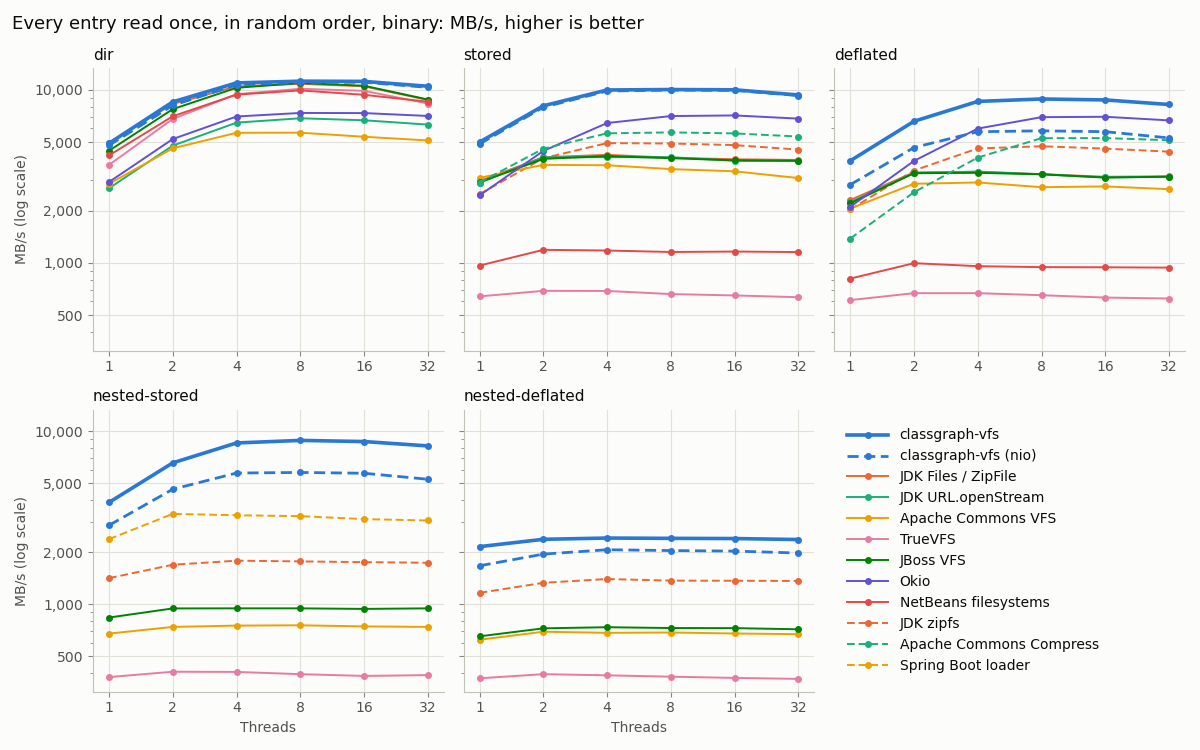
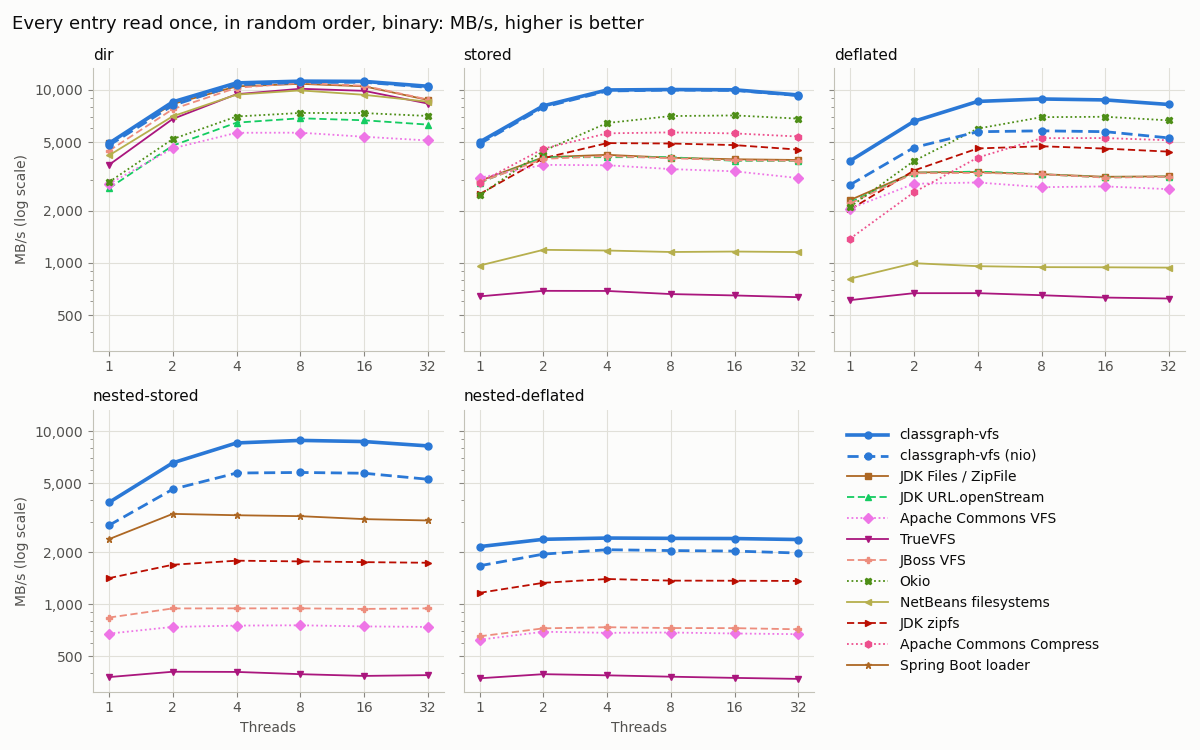
Draw only classgraph-vfs in blue in the benchmark line charts
The other libraries had seven hues, two of them close to blue, so it was hard
to pick out where classgraph-vfs falls. Give them nine hues that are not blue,
spaced as widely as possible, and a marker and dash pattern each, so that no
two libraries in the same panel look alike.

diff --git a/classgraph-vfs/src/test/perf/plot_benchmarks.py b/classgraph-vfs/src/test/perf/plot_benchmarks.py
@@ -38,10 +38,14 @@ GRID = "#e1e0d9"
 AXIS = "#c3c2b7"
 OTHER_BAR = "#b4b2aa"
 CGVFS_COLOR = "#2a78d6"
-# The other categorical hues, in their fixed order. There are more libraries than hues, so a library
-# is told apart by its hue and its line style together
-HUES = ["#eb6834", "#1baf7a", "#eda100", "#e87ba4", "#008300", "#6250d6", "#e34948"]
-STYLES = ["-", (0, (4, 2))]
+# The other libraries' hues, in their fixed order. None is blue, so classgraph-vfs is the only blue line.
+# These nine are the most widely spaced in OKLab that keep away from the blue. There are more libraries
+# than hues (the tenth, Spring Boot loader, shares a hue with JDK Files / ZipFile, which never appears in
+# the same panel), and some pairs look alike to colorblind readers, so each library also gets its own
+# marker, and a dash pattern
+HUES = ["#ad6723", "#14cc61", "#ee75e6", "#aa167d", "#ed8d7d", "#4d8e16", "#b6af4d", "#ba0d01", "#ed4f8d"]
+MARKERS = ["s", "^", "D", "v", "P", "X", "<", ">", "h", "*"]
+DASHES = ["-", (0, (4, 2)), (0, (1, 1.5))]
 
 plt.rcParams.update({
     "font.family": "sans-serif",
@@ -105,13 +109,15 @@ def line_styles(tables):
     others = [library for library in libraries if not is_cgvfs(library)]
     for library in libraries:
         if library == "classgraph-vfs":
-            styles[library] = dict(color=CGVFS_COLOR, linestyle="-", linewidth=2.6, zorder=4)
+            styles[library] = dict(color=CGVFS_COLOR, linestyle="-", linewidth=2.6, marker="o", markersize=5,
+                                   zorder=4)
         elif is_cgvfs(library):
-            styles[library] = dict(color=CGVFS_COLOR, linestyle=STYLES[1], linewidth=2.0, zorder=3)
+            styles[library] = dict(color=CGVFS_COLOR, linestyle=DASHES[1], linewidth=2.0, marker="o",
+                                   markersize=5, zorder=3)
         else:
             i = others.index(library)
-            styles[library] = dict(color=HUES[i % len(HUES)], linestyle=STYLES[i // len(HUES)], linewidth=1.4,
-                                   zorder=2)
+            styles[library] = dict(color=HUES[i % len(HUES)], linestyle=DASHES[i % len(DASHES)], linewidth=1.3,
+                                   marker=MARKERS[i % len(MARKERS)], markersize=5, zorder=2)
     return styles
 
 
@@ -129,7 +135,7 @@ def first_read_chart(content, header, rows, styles, out_dir):
     for ax, layout in zip(axes.flat, LAYOUTS):
         for row in (r for r in rows if r[0] == layout):
             points = [(t, number(c)) for t, c in zip(threads, row[2:]) if number(c) is not None]
-            ax.plot([p[0] for p in points], [p[1] for p in points], marker="o", markersize=4, **styles[row[1]])
+            ax.plot([p[0] for p in points], [p[1] for p in points], **styles[row[1]])
             if row[1] not in libraries:
                 libraries.append(row[1])
         ax.set_title(layout, loc="left")
@@ -151,7 +157,7 @@ def first_read_chart(content, header, rows, styles, out_dir):
     # The sixth panel holds the legend
     legend_ax = axes.flat[5]
     legend_ax.axis("off")
-    legend_ax.legend([Line2D([], [], marker="o", markersize=4, **styles[library]) for library in libraries],
+    legend_ax.legend([Line2D([], [], **styles[library]) for library in libraries],
                      libraries, loc="center left", frameon=False, handlelength=3)
     fig.suptitle(f"Every entry read once, in random order, {content}: MB/s, higher is better", x=0.01,
                  ha="left", fontsize=13)
